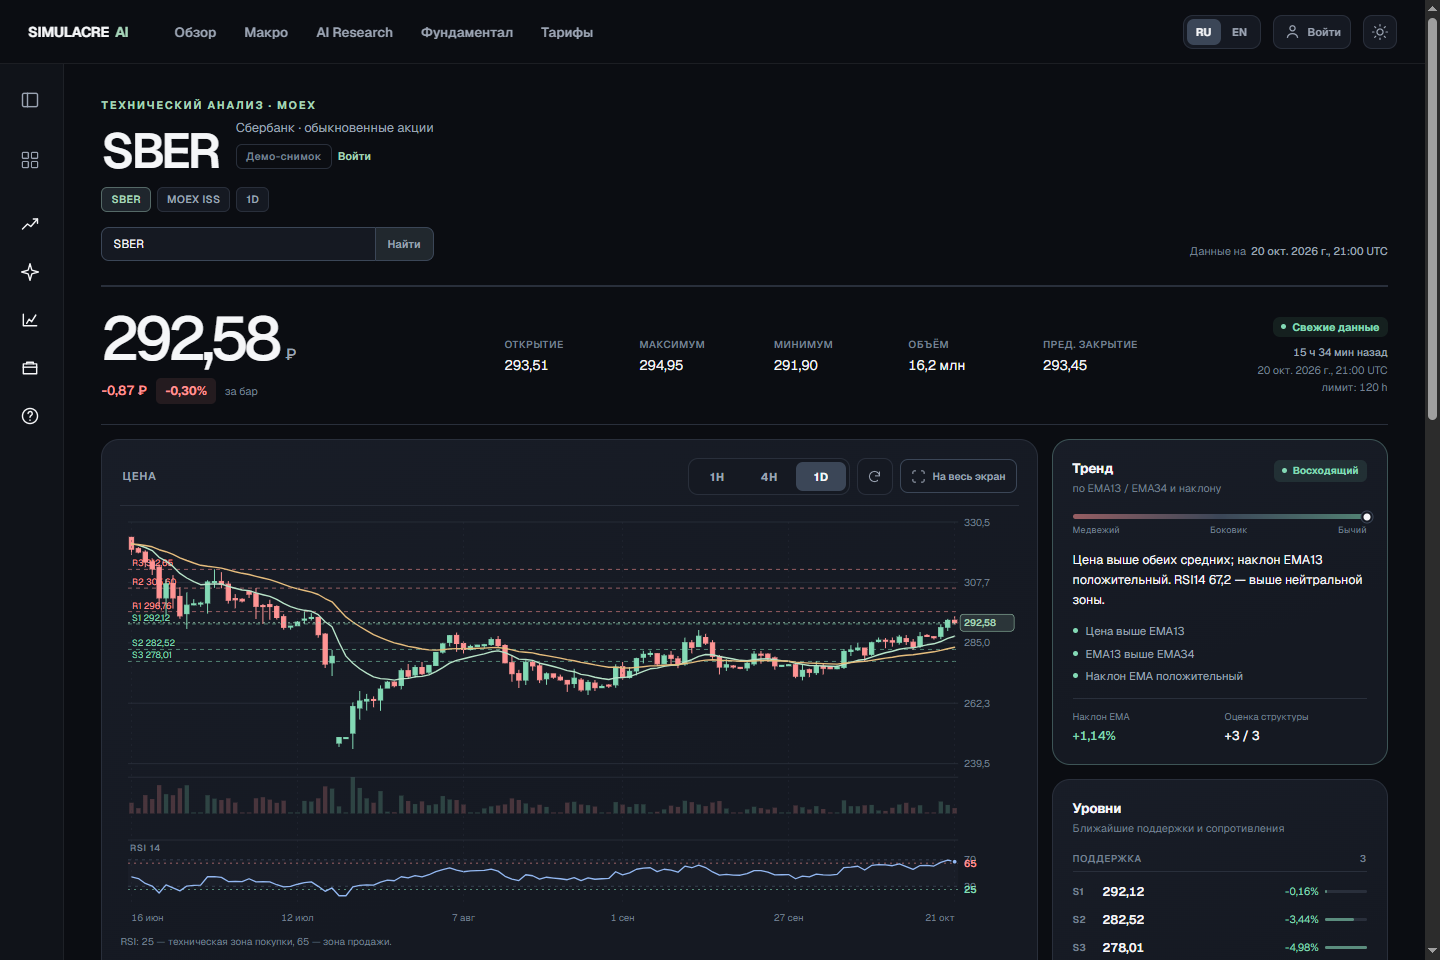
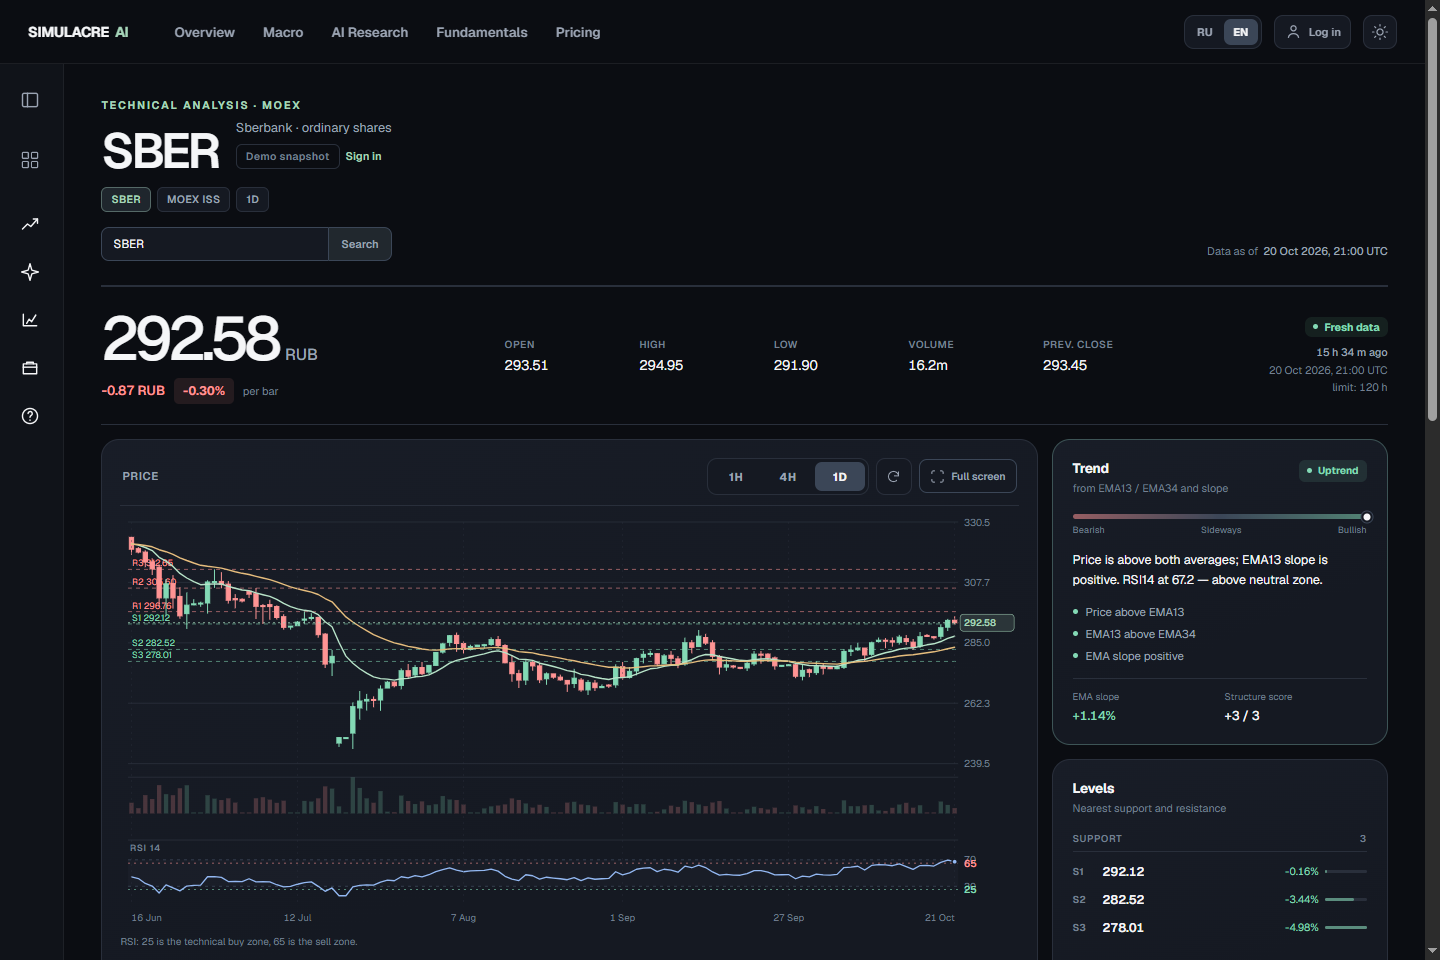
docs: use English platform screenshots in profile gallery

diff --git a/assets/README.md b/assets/README.md
@@ -1,12 +1,12 @@
 # Screenshot provenance
 
-Captured on 20 November 2026 (Asia/Yakutsk) with Playwright MCP. Viewport: 1440 x 960 CSS pixels; WebP; no post-processing. A separate anonymous browser context was used.
+Captured on 20 November 2026 (Asia/Yakutsk), using the actual EN interface in an anonymous Playwright browser context. Viewport: 1440 x 960 CSS pixels. WebP; no post-processing.
 
 | File | Public page |
 | --- | --- |
 | market-overview.webp | https://simulacre-ai.ru/site/ |
 | macro-buffett.webp | https://simulacre-ai.ru/site/macro/#russia_buffett_indicator |
-| analysis-demo.webp | https://simulacre-ai.ru/site/analysis/ ? labelled public demo |
-| fundamental-detail.webp | https://simulacre-ai.ru/site/fundamental/ ? SBER company drawer |
+| analysis-demo.webp | https://simulacre-ai.ru/site/analysis/ ? labelled public demo snapshot |
+| bonds.webp | https://simulacre-ai.ru/site/bonds/ |
 
-Screenshots illustrate the interface, not verified current market data or model accuracy. Copy these assets into the public profile repository with README.md; images in a private repository are not suitable public README dependencies.
+The English bond screener replaces the earlier Russian company-valuation screenshot because Fundamentals remains Russian with EN selected. Original news headlines and security names retain their source language. Screenshots illustrate the interface, not independently verified current prices or model accuracy.

diff --git a/README.md b/README.md
@@ -38,7 +38,7 @@ My main project: a financial analytics platform for the Russian market, combinin
       <strong>Technical analysis</strong> · price structure and indicators
     </td>
     <td width="50%" valign="top">
-      <a href="assets/fundamental-detail.webp"><img src="assets/fundamental-detail.webp" alt="SBER company valuation interface with DDM assumptions and an equity value bridge" width="400"></a><br>
+      <a href="assets/bonds.webp"><img src="assets/bonds.webp" alt="English bond screener with yield, duration, ratings and liquidity filters" width="400"></a><br>
       <strong>Company valuation</strong> · assumptions, scenarios and value drivers
     </td>
   </tr>
